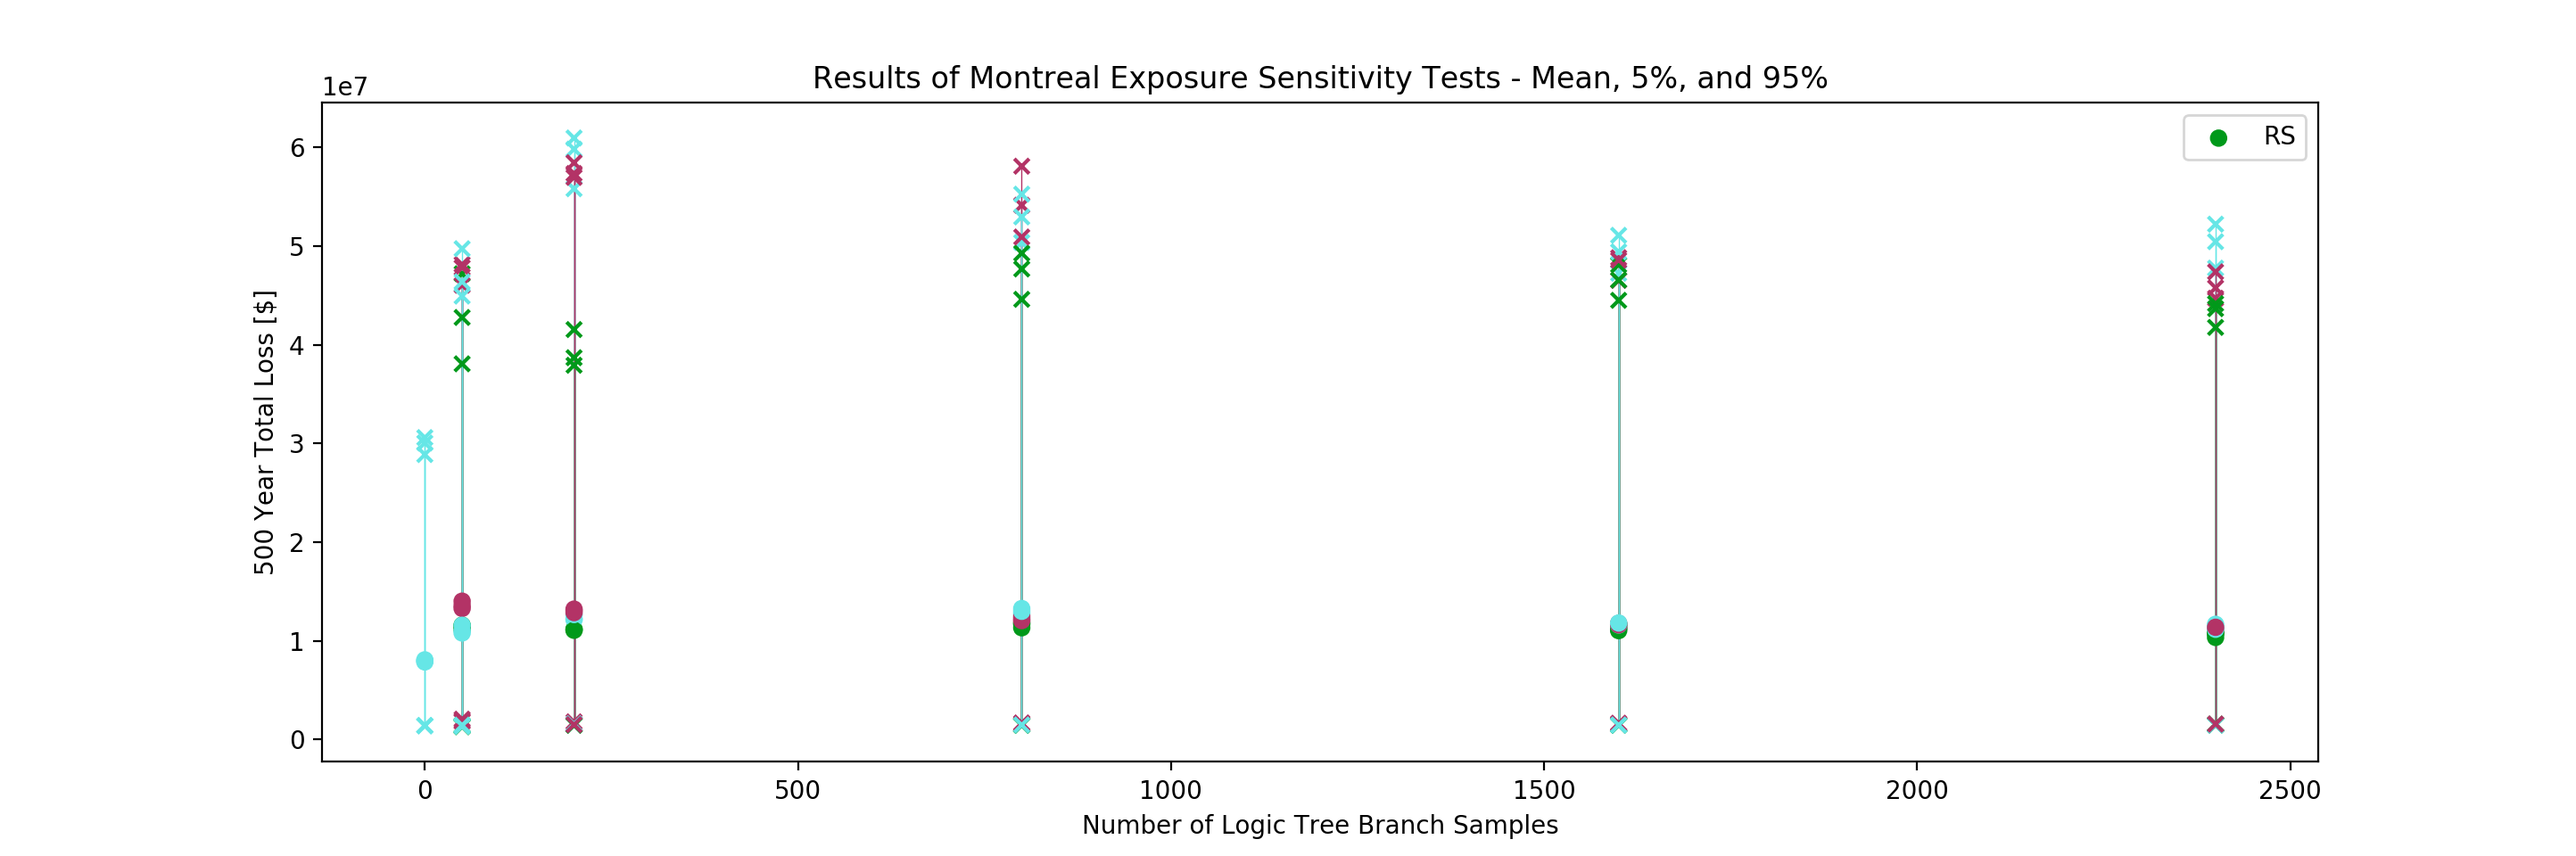
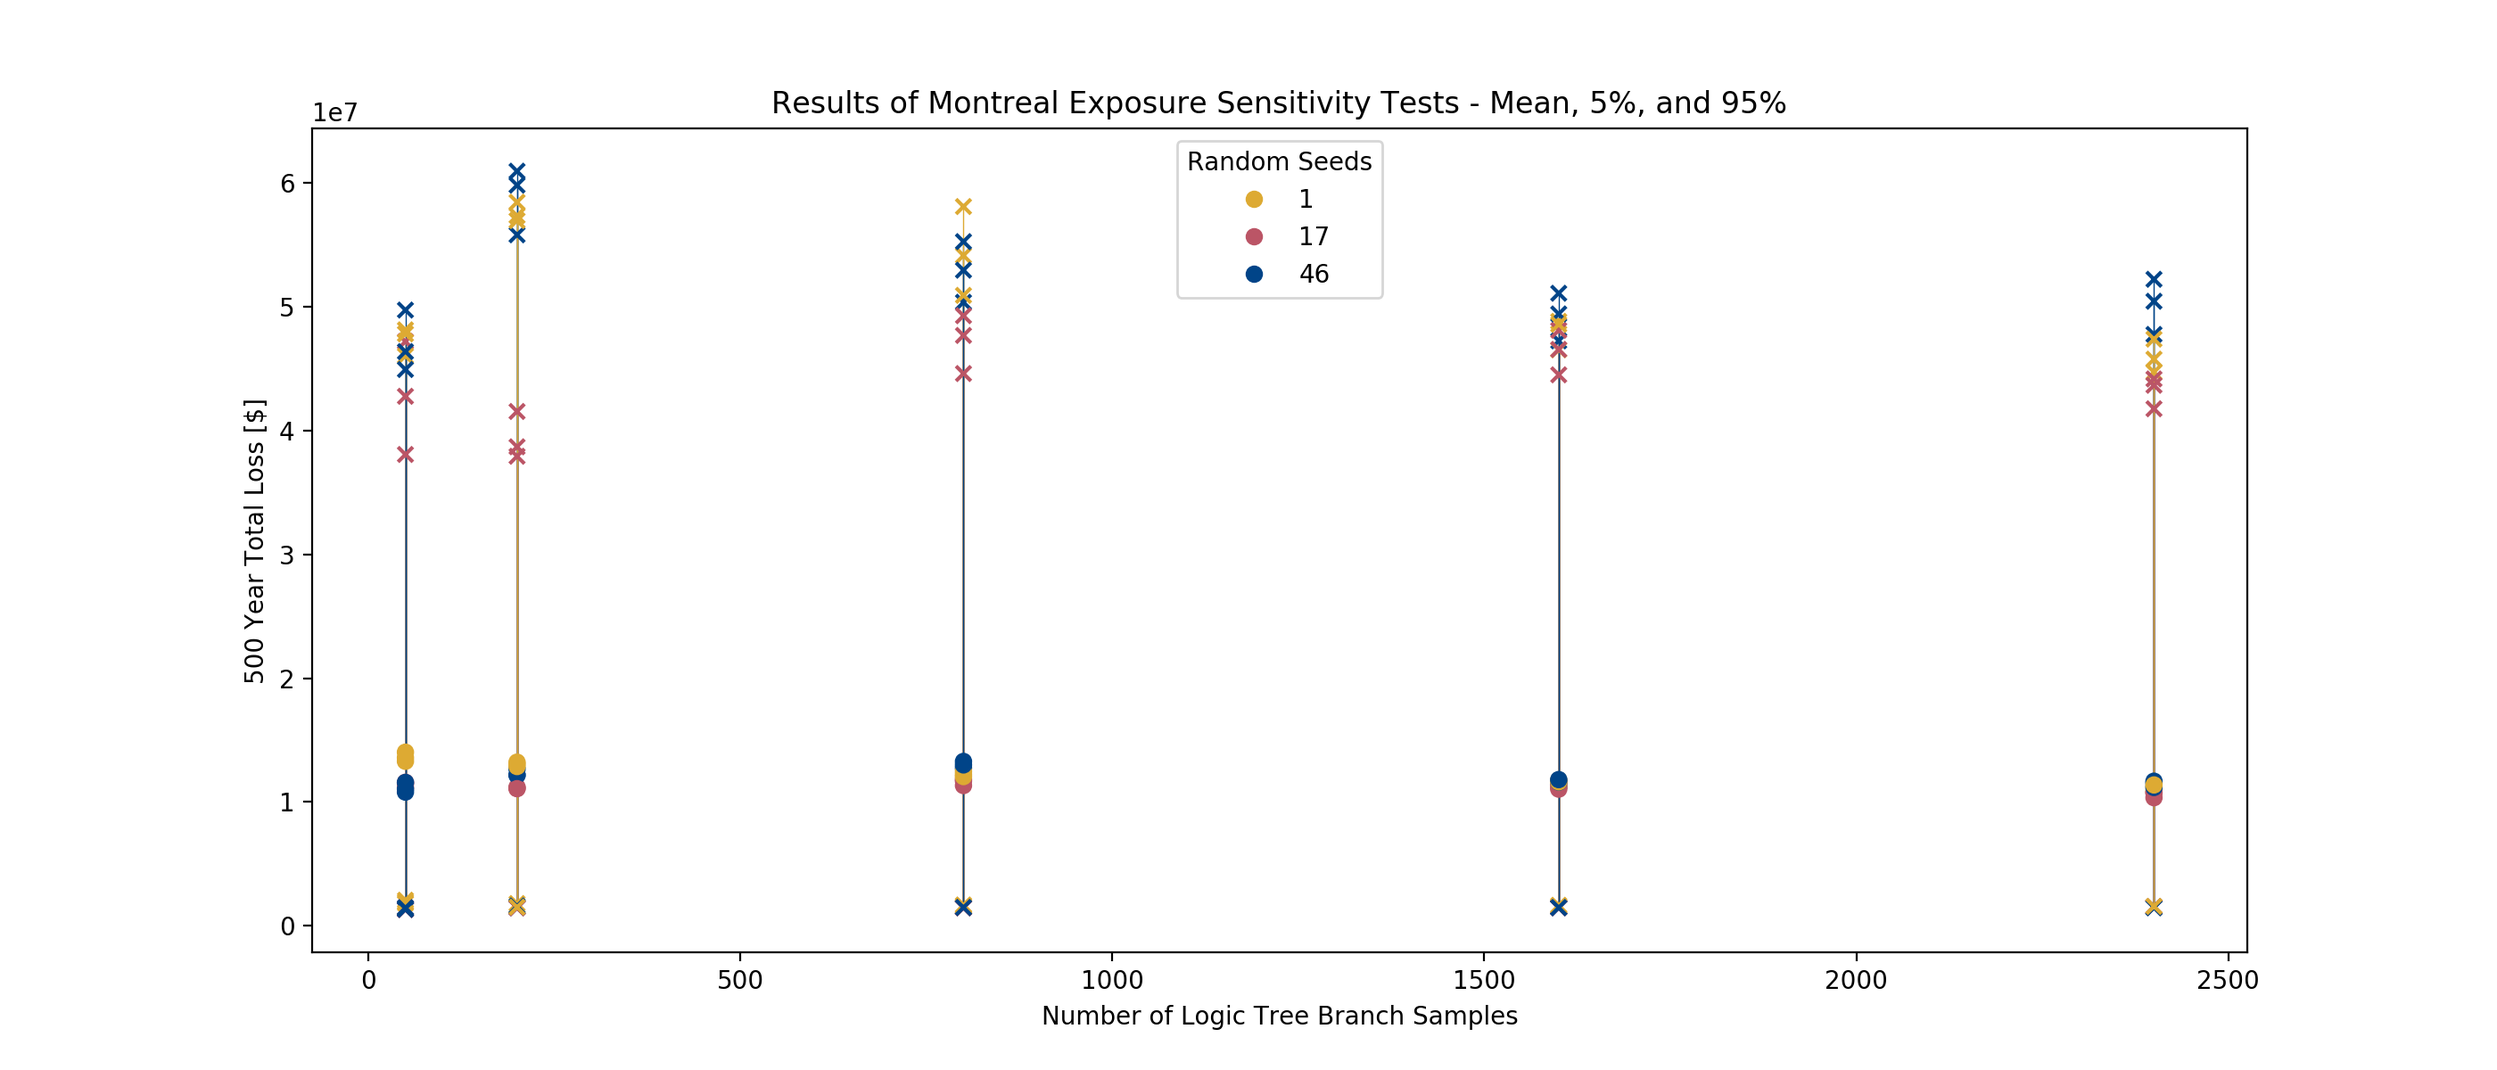
cleanup senstest figs, write new run scripts for eD/ebR

diff --git a/ebRisk/SensitivityTesting/SensitivityTesting_processResults.py b/ebRisk/SensitivityTesting/SensitivityTesting_processResults.py
@@ -11,11 +11,14 @@ SensDir='/Users/thobbs/Documents/GitHub/canada-srm2/ebRisk/SensitivityTesting'
 ##############################################################
 
 ## Use log files to fill out data frame with TESTLOC, TESTNUM, RUNNUM, NUMSES, NUMBRANCH, RS, and LOSSES
-city='Montreal'
-#city='Vancouver'
+#city='Montreal'
+city='Vancouver'
 files = glob.glob(str(SensDir)+"/*"+city+"*.ini.log")
 df = pd.DataFrame(columns=range(9))
 df.columns = ('TESTLOC', 'TESTNUM', 'RUNNUM', 'NUMSES', 'NUMBRANCH', 'RS', 'MEANLOSS', 'FIVELOSS', 'NIFILOSS')
+
+### What return period?
+RP = 500
 
 for log in files:
     
@@ -45,7 +48,6 @@ for log in files:
                 RS = line.split(' = ')[1].split('\n')[0]
     
     #grab the 500 yr loss (mean, 5, 95)
-    RP = 50
     meandf = pd.read_csv('agg_curves-mean_'+str(RUNNUM)+'.csv', skiprows=1)
     meandf = meandf[(meandf['GenType'] == '*total*')]
     meandf = meandf[(meandf['return_period'] == RP)]
@@ -72,11 +74,11 @@ df['EFFYEARS'] = df['NUMSES']*df['NUMBRANCH']
 df.to_csv('RESULTS.csv')
 
 df = pd.read_csv('RESULTS.csv')
-#print(df)
-#print("Max loss is "+str(df['MEANLOSS'].max()))
-#print("Min loss is "+str(df['MEANLOSS'].min()))
+# remove full enumeration
+df = df[df['NUMBRANCH'] != 0]
 
 # Plot
+fig, ax = plt.subplots(figsize=(14, 6))
 #### Pick which variable you want to plot by:
 #xvar = df['NUMBRANCH']; xlab = 'Number of Logic Tree Branch Samples'
 #xvar = df['NUMSES']; xlab = 'Number of Stochastic Event Sets'
@@ -87,24 +89,28 @@ y_errormax = df['NIFILOSS']-df['MEANLOSS']
 y_error = [y_errormin, y_errormax]
 
 ### below: top lines will colour results by random seed, lower lines will color by eff years.
-#colors = {1:((0.7), (0.2), (0.4)), 17:(0.0, 0.6, 0.1), 46:(0.4, 0.9, 0.9)}
-#df['color'] = df['RS'].map(colors)
-colors = {0:(0.1, 0.1, 0.1), 50:((0.2), (0.2), (0.2)), 200:(0.3, 0.3, 0.3), 800:(0.5, 0.5, 0.5), 1600:(0.7, 0.7, 0.7), 2400:(0.9, 0.9, 0.9)}
-df['color'] = df['NUMBRANCH'].map(colors)
+colors = {1:((221/255), (170/255), (51/255)), 17:((187/255), (85/255), (102/255)), 46:((0/255), (68/255), (136/255))}
+df['color'] = df['RS'].map(colors)
+#colors = {0:(0.1, 0.1, 0.1), 50:((0.2), (0.2), (0.2)), 200:(0.3, 0.3, 0.3), 800:(0.5, 0.5, 0.5), 1600:(0.7, 0.7, 0.7), 2400:(0.9, 0.9, 0.9)}
+#df['color'] = df['NUMBRANCH'].map(colors)
 #### also [un]comment the correct scatter line (w/ scatter_kwargs)
 
-#scatter_kwargs = {"zorder":100}
-#error_kwargs = {"lw":.5, "zorder":0}
-#plt.errorbar(xvar, df['MEANLOSS'], yerr=y_error, fmt='none', ecolor=df['color'], **error_kwargs)
-#plt.scatter(xvar, df['FIVELOSS'], c=df['color'], marker='x')
-#plt.scatter(xvar, df['NIFILOSS'], c=df['color'], marker='x')
-##plt.scatter(xvar, df['MEANLOSS'], c=df['color'], label='RS', **scatter_kwargs)
+scatter_kwargs = {"zorder":100}
+error_kwargs = {"lw":.5, "zorder":0}
+plt.errorbar(xvar, df['MEANLOSS'], yerr=y_error, fmt='none', ecolor=df['color'], **error_kwargs)
+plt.scatter(xvar, df['FIVELOSS'], c=df['color'], marker='x')
+plt.scatter(xvar, df['NIFILOSS'], c=df['color'], marker='x')
+plt.scatter(xvar, df['MEANLOSS'], c=df['color'], label='RS', **scatter_kwargs)
 #plt.scatter(xvar, df['MEANLOSS'], c=df['color'], label='NUMBRANCH', **scatter_kwargs)
-#plt.xlabel(xlab)
-#plt.ylabel(str(RP)+' Year Total Loss [$]')
-#plt.title('Results of '+city+' Exposure Sensitivity Tests - Mean, 5%, and 95%')
+plt.xlabel(xlab)
+plt.ylabel(str(RP)+' Year Total Loss [$]')
+plt.title('Results of '+city+' Exposure Sensitivity Tests - Mean, 5%, and 95%')
+markers = [plt.Line2D([0,0],[0,0],color=color, marker='o', linestyle='') for color in colors.values()]
+plt.legend(markers, colors.keys(), numpoints=1, title="Random Seeds", loc="upper right")
 #plt.legend()
-#plt.show()
+#legend1 = ax.legend(colors, loc="upper right", )
+#ax.add_artist(legend1)
+plt.show()
 
 ##### Once preferred parameters are selected, calculate how much they differ from full enumeration
 branch = 2400; SES = 500000
@@ -121,6 +127,10 @@ full_min = full['FIVELOSS'].mean(); full_min = "${:,.0f}".format(full_min)
 full_max = full['NIFILOSS'].mean(); full_max = "${:,.0f}".format(full_max)
 
 print("Preferred result is "+pref_mean+" ("+pref_min+" - "+pref_max+")")
-print("Full enumeration result is "+full_mean+" ("+full_min+" - "+full_max+")")
+#print("Full enumeration result is "+full_mean+" ("+full_min+" - "+full_max+")")
 
-print("Preferred result is "+"{:2.0f}%".format(diff)+" higher than the full enumeration.")
+#print("Preferred result is "+"{:2.0f}%".format(diff)+" higher than the full enumeration.")
+
+print("Spread in mean values is "+"${:,.0f}".format(df['MEANLOSS'].max()-df['MEANLOSS'].min()))
+df['spread'] = df['NIFILOSS'] - df['FIVELOSS']
+print("Spread in tightest interval is "+"${:,.0f}".format(df['spread'].min()))
